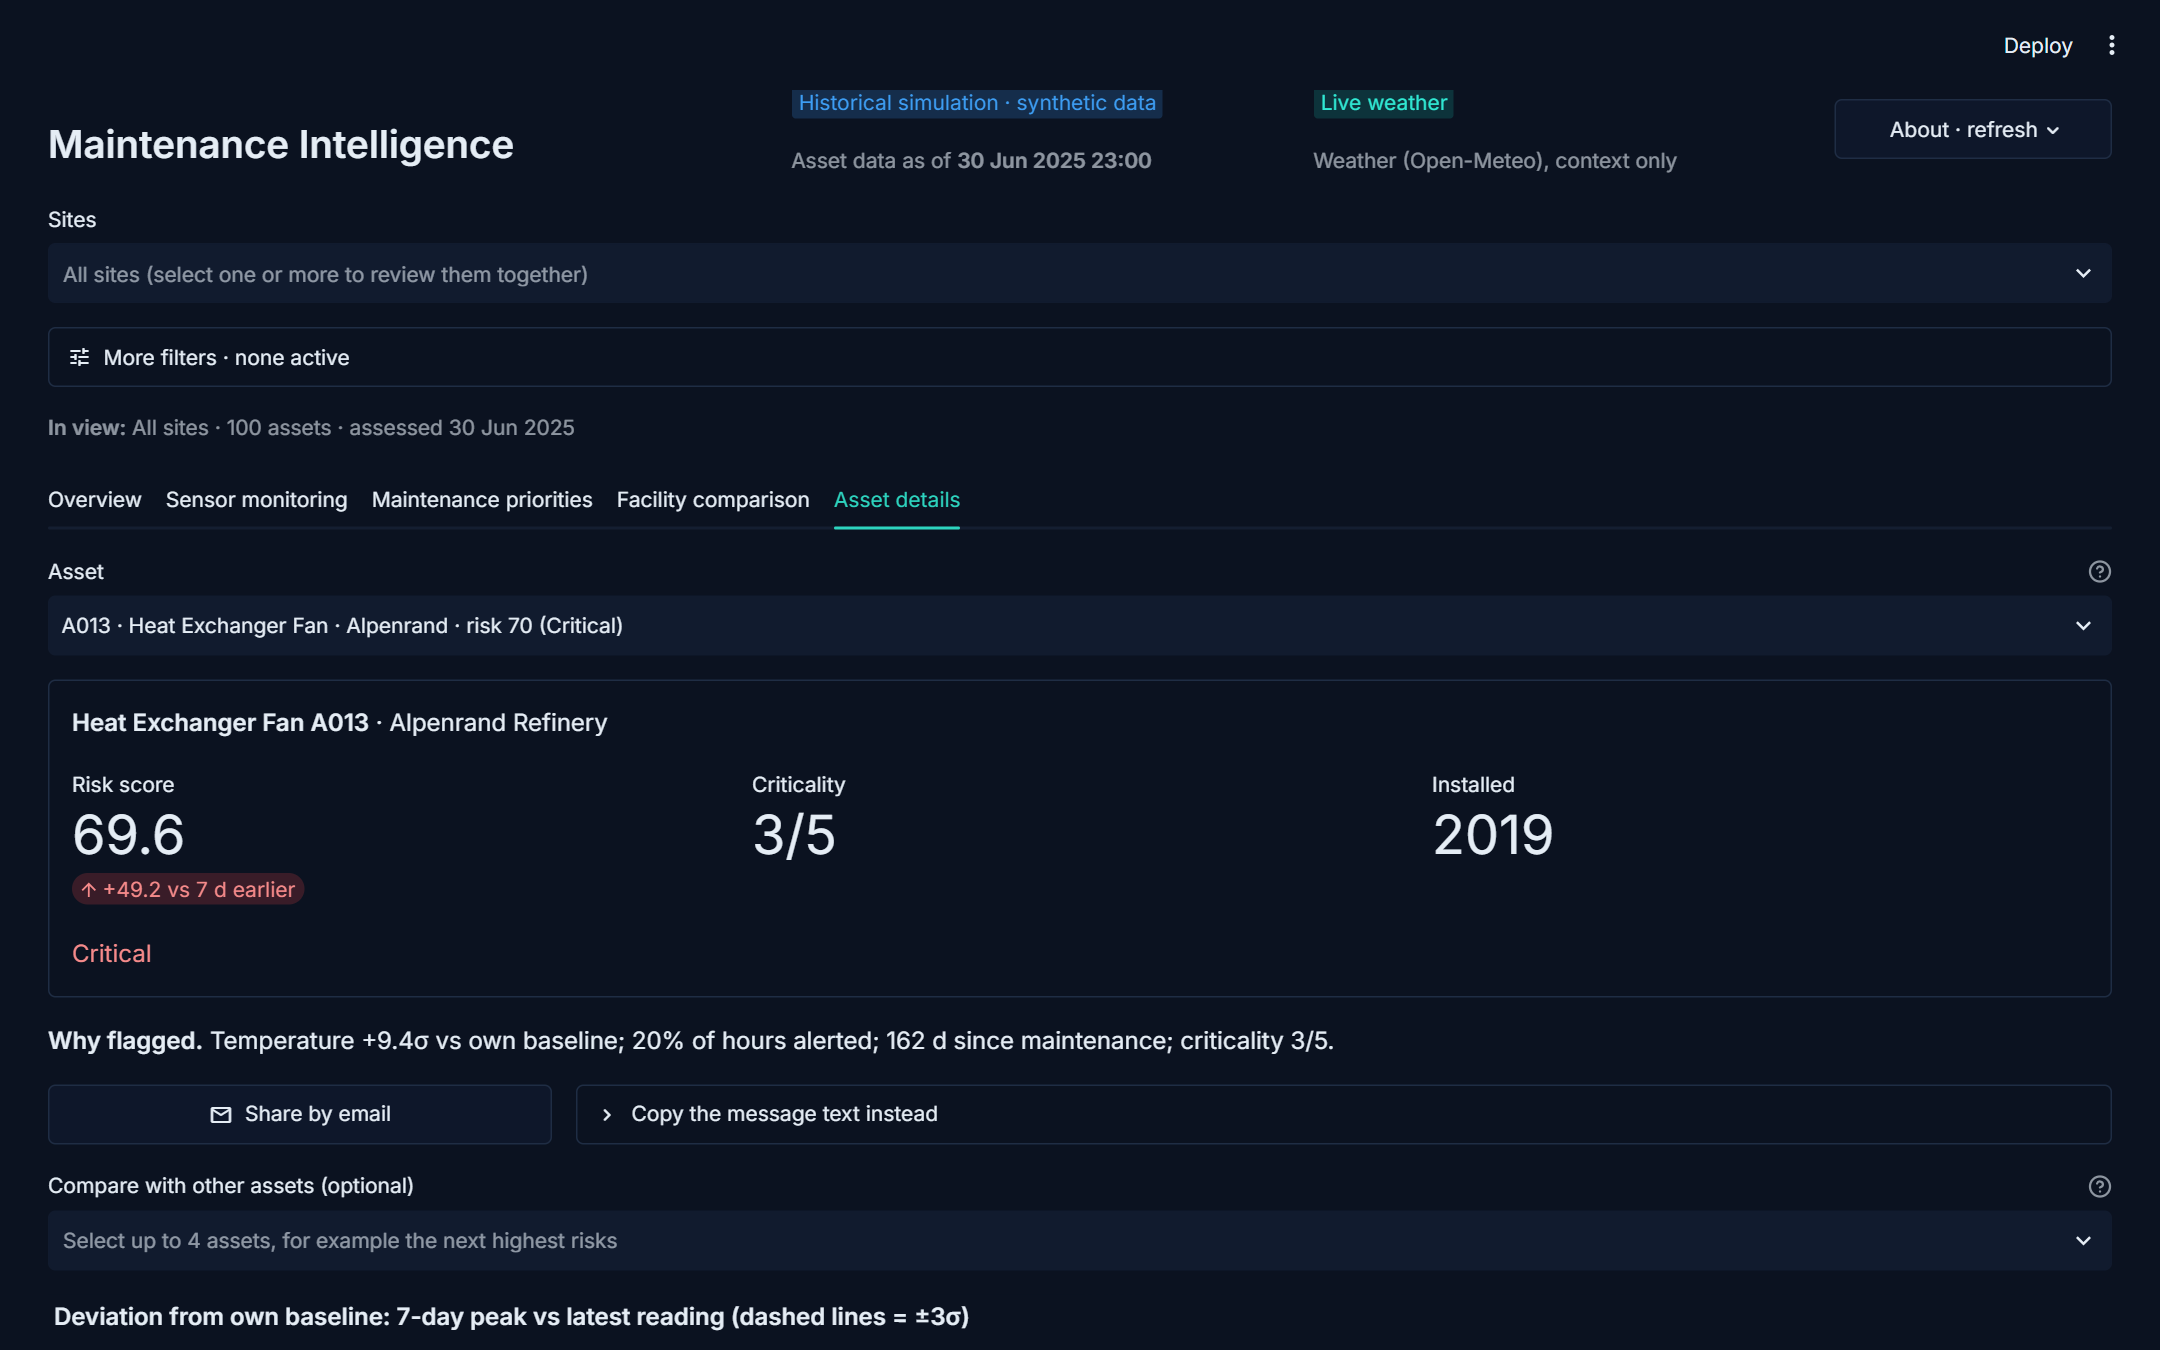
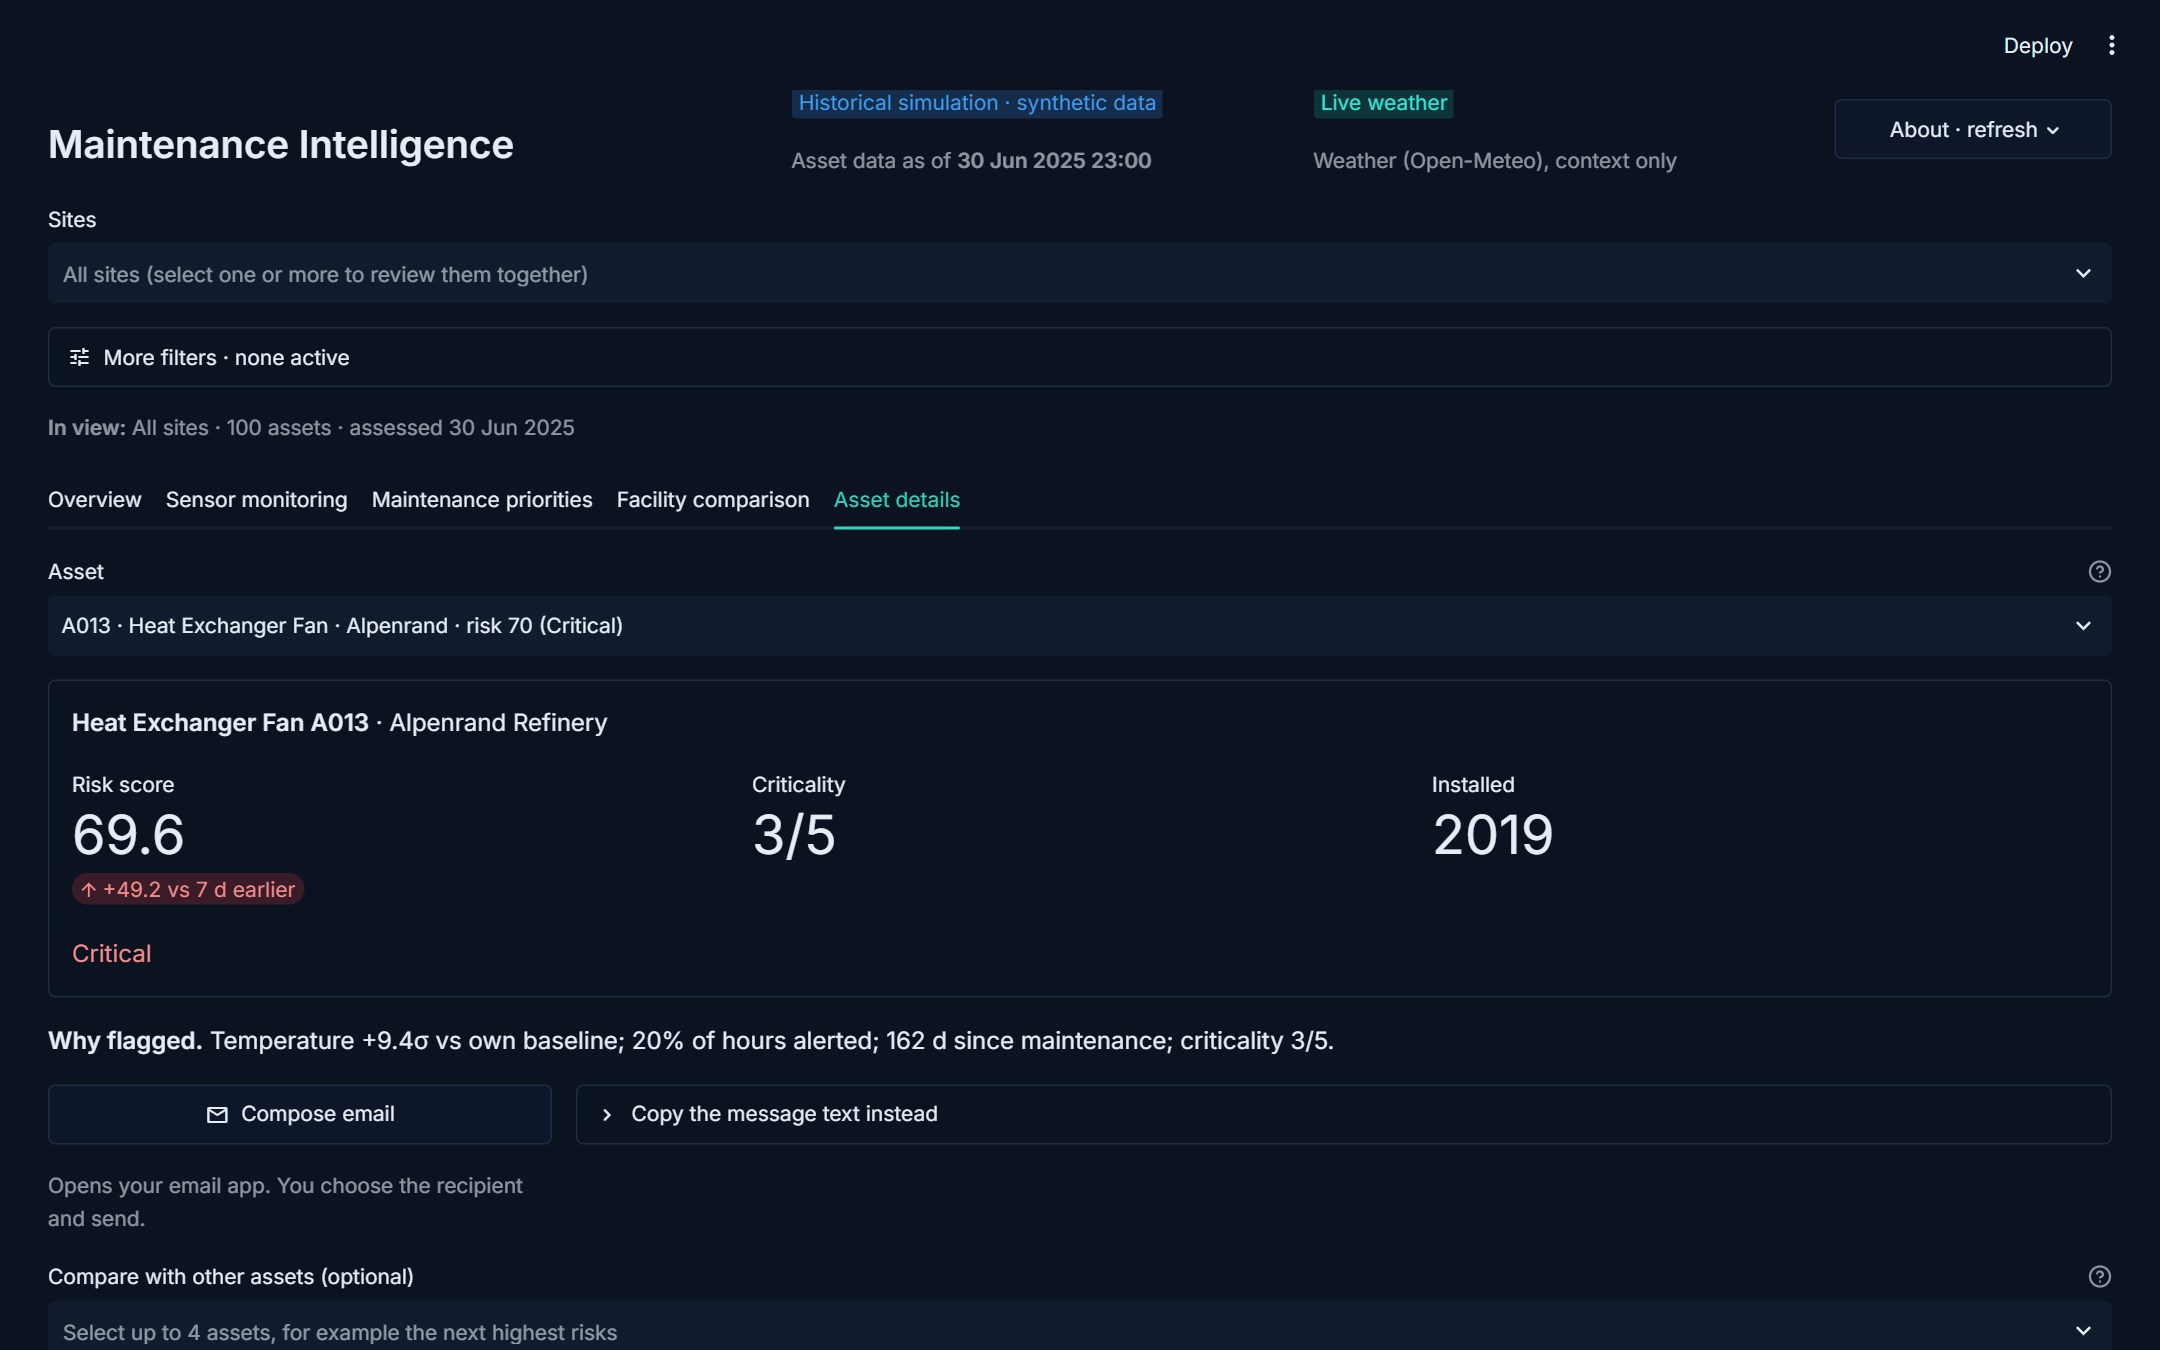
Share link restores the full view; compose-email wording

Changed region(s): [[0.031, 0.8711, 0.4653, 0.9956], [0.0931, 0.8089, 0.1861, 0.84]]

diff --git a/app.py b/app.py
@@ -393,15 +393,22 @@ with tabs[4]:
         base = st.context.url.split("?")[0]
     except Exception:  # not available outside a browser session
         base = ""
-    link = base + "?" + urlencode({"tab": "Asset details", "asset": a, "date": str(day), **({"site": fsel} if len(fsel) < len(fac) else {})}, doseq=True)
+    params = {"tab": "Asset details", "asset": a, "date": str(day)}  # everything needed to reopen the same view
+    if len(fsel) < len(fac):
+        params["site"] = fsel
+    if len(tsel) < assets.asset_type.nunique():
+        params["type"] = tsel
+    if period != 30:
+        params["period"] = str(period)
+    link = f"{base}?{urlencode(params, doseq=True)}" if base else ""
     msg = (f"Asset: {row.asset_name} ({a}), {row.facility}\n"
            f"Severity: {row.status}, risk {row.risk:.1f}/100" + ("" if pd.isna(row.change) else f" ({row.change:+.1f} pts vs 7 days earlier)") + "\n"
            f"Why: {row.explanation}\n"
-           f"Assessed: {as_of:%d %b %Y} (synthetic demo data)\n"
-           f"Open this view: {link}")
+           f"Assessed: {as_of:%d %b %Y} (synthetic demo data)" + (f"\nOpen this view: {link}" if link else ""))
     c_share = st.columns([1, 3])
-    c_share[0].link_button("Share by email", f"mailto:?subject={quote(f'{a} {row.asset_type}: {row.status}, risk {row.risk:.0f}')}&body={quote(msg)}", icon=":material/mail:", width="stretch",
+    c_share[0].link_button("Compose email", f"mailto:?subject={quote(f'{a} {row.asset_type}: {row.status}, risk {row.risk:.0f}')}&body={quote(msg.replace(chr(10), chr(13) + chr(10)))}", icon=":material/mail:", width="stretch",
                            help="Opens your email app with a ready-made message. Nothing is sent automatically, and you choose the recipient.")
+    c_share[0].caption("Opens your email app. You choose the recipient and send.")
     with c_share[1].expander("Copy the message text instead"):
         st.code(msg, language=None)
     ss["cmp"] = [x for x in ss.get("cmp", []) if x in set(T.asset_id) and x != a]

diff --git a/README.md b/README.md
@@ -54,7 +54,7 @@ Both versions are Streamlit apps on the same analysis (`mi/`), so the risk score
 | Tables | Rank missing, columns in an arbitrary order, change shown without colour | Rank, asset, equipment, site, risk, 7-day change (points, coloured), severity, then driver and peak; the risk formula moved into an expander | Columns follow the decision: what, where, how bad, why. |
 | Choosing an asset | A plain list of IDs, and 'Why flagged' shown even for healthy assets | Each option shows type, site, risk and severity, highest risk first; healthy assets say 'Reading summary (not flagged)'; optional comparison of up to 4 assets in Asset details and overlay of up to 4 assets on one sensor | The assets that need attention are at the top, and several can be reviewed together. |
 | Honest empty and edge states | 'Inspect next' always listed three assets, even if all were Normal; empty charts could crash; a shared link to an unavailable asset silently changed asset | Only flagged assets appear in 'Inspect next', with a clear message when none are; empty charts show a note; an unavailable asset in a link triggers a notice; no chart is drawn without readings; the 7-day and 30-day windows are labelled | The screen never implies a problem that is not there. |
-| Telling someone | No way to pass an asset on | 'Share by email' on Asset details opens your email app with a ready-made message (asset, severity, risk, reason, date, link to the same view); a 'Copy the message text instead' box is the fallback | Nothing is sent automatically and no recipients are invented; real notifications are listed under adoption gaps. |
+| Telling someone | No way to pass an asset on | 'Compose email' on Asset details opens your email app with a ready-made message (asset, severity, risk, reason, date, and a link that restores the same sites, filters, window and asset); a 'Copy the message text instead' box is the fallback | Nothing is sent automatically and no recipients are invented; real notifications are listed under adoption gaps. |
 | Small screens | Status badges wrapped over several lines | Badges stay on one line and stack cleanly on phones | Usable on a phone. |
 
 | Version 1 | Version 2 |
@@ -161,7 +161,7 @@ See [docs/data_dictionary.md](docs/data_dictionary.md) and [docs/architecture.md
 4. **Better models:** compare autoencoders or per-asset-type models, using a proper validation window.
 5. **Operations:** scheduled refresh, alert notifications, Docker deployment, and a button to mark an alert as a false alarm so the system learns from it.
 ## Not in the demo (adoption gaps)
-These are intentionally not faked: recording who reviewed or acknowledged an alert, review history, team permissions, scheduled shift reports, facility-level reports beyond the CSV exports, automatic notifications or messaging to responsible people (the demo only offers a manual share-by-email), integration with a maintenance system, and validation of the risk score on real plant data. The score ranks assets for inspection; it is not a failure prediction.
+These are intentionally not faked: recording who reviewed or acknowledged an alert, review history, team permissions, scheduled shift reports, facility-level reports beyond the CSV exports, automatic notifications or messaging to responsible people (the demo only offers a manual compose-email), integration with a maintenance system, and validation of the risk score on real plant data. The score ranks assets for inspection; it is not a failure prediction.
 
 ## Limitations
 
